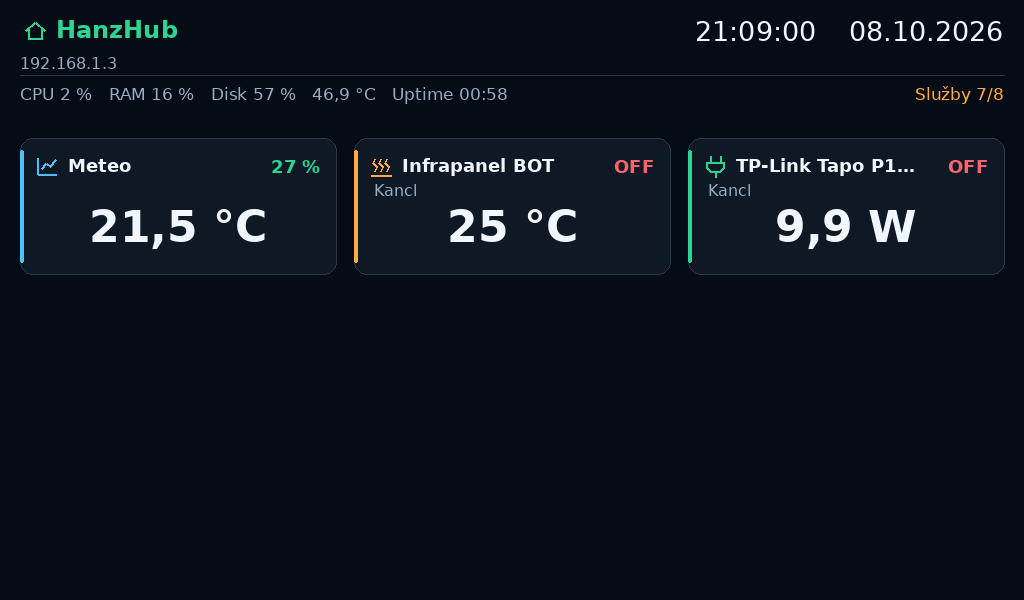
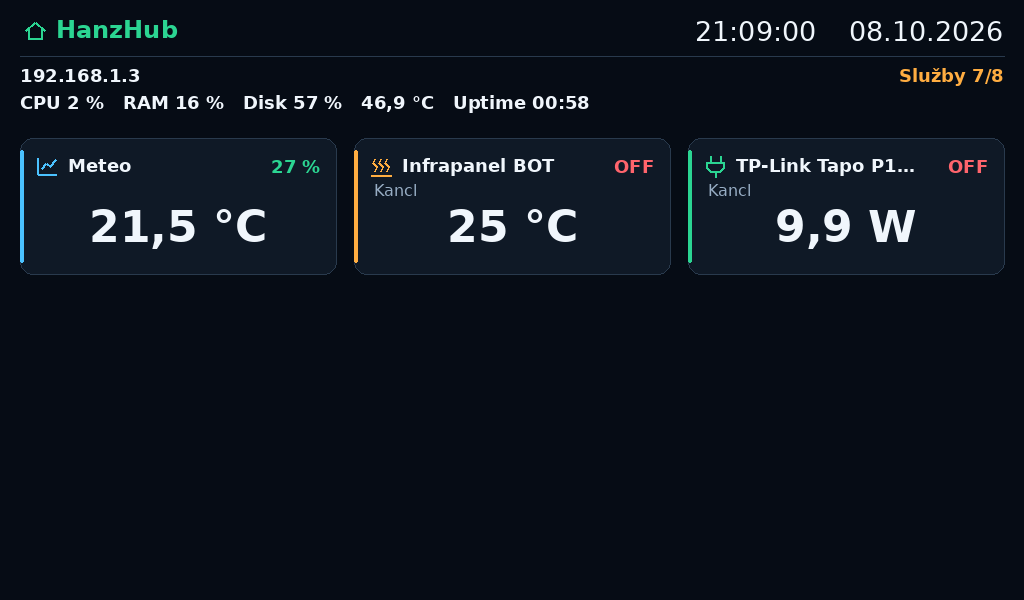
Move home IP below divider and strengthen system information typography
Use a compact two-row information band with 18 px bold high-contrast text, keeping service counts and pending notices visible. Refresh README and landscape previews for 2.2.1. All 53 tests pass.

Changed region(s): [[0.0, 0.09, 0.5938, 0.18], [0.875, 0.09, 1.0, 0.18]]

diff --git a/lcd/infopanel_landscape.py b/lcd/infopanel_landscape.py
@@ -88,9 +88,10 @@ def system_summary(c, model):
     summary = ("CPU "+fmt(system.get("cpu"),0," %")+"   RAM "+fmt(system.get("ram"),0," %")+
                "   Disk "+fmt(system.get("disk"),0," %")+"   "+fmt(system.get("temp"),1," °C")+
                "   Uptime "+str(system.get("uptime","—")))
-    c.draw.line((20,75,1004,75),fill=BORDER)
-    c.text((20,84),summary,17,MUTED,width=760)
-    c.text((1004,84),"Služby "+count,17,GREEN if services and services["online"]==services["total"] else AMBER,anchor="ra")
+    c.draw.line((20,56,1004,56),fill=BORDER)
+    c.text((20,65),system.get("ip") or "Bez sítě",18,WHITE,True,width=760)
+    c.text((1004,65),"Služby "+count,18,GREEN if services and services["online"]==services["total"] else AMBER,True,anchor="ra")
+    c.text((20,92),summary,18,WHITE,True,width=984)
 
 
 def weather_page(c, model, window):
@@ -196,7 +197,8 @@ def render_landscape(page, model, window, timer_dialog, size, font_path):
     c.text((1004,15),now.strftime("%d.%m.%Y"),27,WHITE,anchor="ra")
     message = model.get("message")
     subtitle = system.get("ip") or "Bez sítě"
-    c.text((20,54),subtitle,16,MUTED,width=190)
+    if page!="home":
+        c.text((20,54),subtitle,16,MUTED,width=190)
     if page!="home" and message:
         c.text((220,54),message,16,AMBER,width=784)
     {"home":overview,"meteo":lambda canvas,data:weather_page(canvas,data,window),
@@ -204,7 +206,7 @@ def render_landscape(page, model, window, timer_dialog, size, font_path):
     if page=="home":
         system_summary(c,model)
         if message:
-            c.text((20,111),message,16,AMBER,width=984)
+            c.text((20,117),message,16,AMBER,width=984)
     if timer_dialog:
         timer_modal(c,model)
         c.icon("home",35,30,GREEN)

diff --git a/lcd/preview_infopanel.py b/lcd/preview_infopanel.py
@@ -54,7 +54,7 @@ def landscape_previews(output):
         x,y = 10+(i%2)*532,38+(i//2)*340
         composite.paste(image.resize((512,300),Image.Resampling.LANCZOS),(x,y))
         draw.text((x+256,y-20),"Přehled" if page=="home" else TITLES[page],font=font(16,True),fill=MUTED,anchor="mm")
-    draw.text((532,708),"HanzHub · Infopanel v2.2.0 · ukázková data · obrazovky 1024 × 600",font=font(13),fill=MUTED,anchor="mm")
+    draw.text((532,708),"HanzHub · Infopanel v2.2.1 · ukázková data · obrazovky 1024 × 600",font=font(13),fill=MUTED,anchor="mm")
     composite.save(output/"infopanel-landscape.png")
     model = demo_model()
     model.update(heater={"online":False},plug={"online":False},meteo={})

diff --git a/lcd/infopanel.py b/lcd/infopanel.py
@@ -25,7 +25,7 @@ from lcd_info import (FBIOGET_FSCREENINFO, FBIOGET_VSCREENINFO, fb_fix_screeninf
                       fb_var_screeninfo, fb_ioctl_struct, rgb_to_rgb565_bytes,
                       _try_parse_line, get_cpu_temp_c, get_iface_ip, get_uptime_str)
 
-VERSION = "2.2.0"
+VERSION = "2.2.1"
 DEFAULTS = {"fb":"/dev/fb0","rotate":0,"touch":"auto","layout":"auto",
             "font":"/usr/share/fonts/truetype/dejavu/DejaVuSans.ttf",
             "meteo_csv":"/opt/meteo3/meteo_log.csv","meteo_refresh":15,"meteo_stale":3600,
